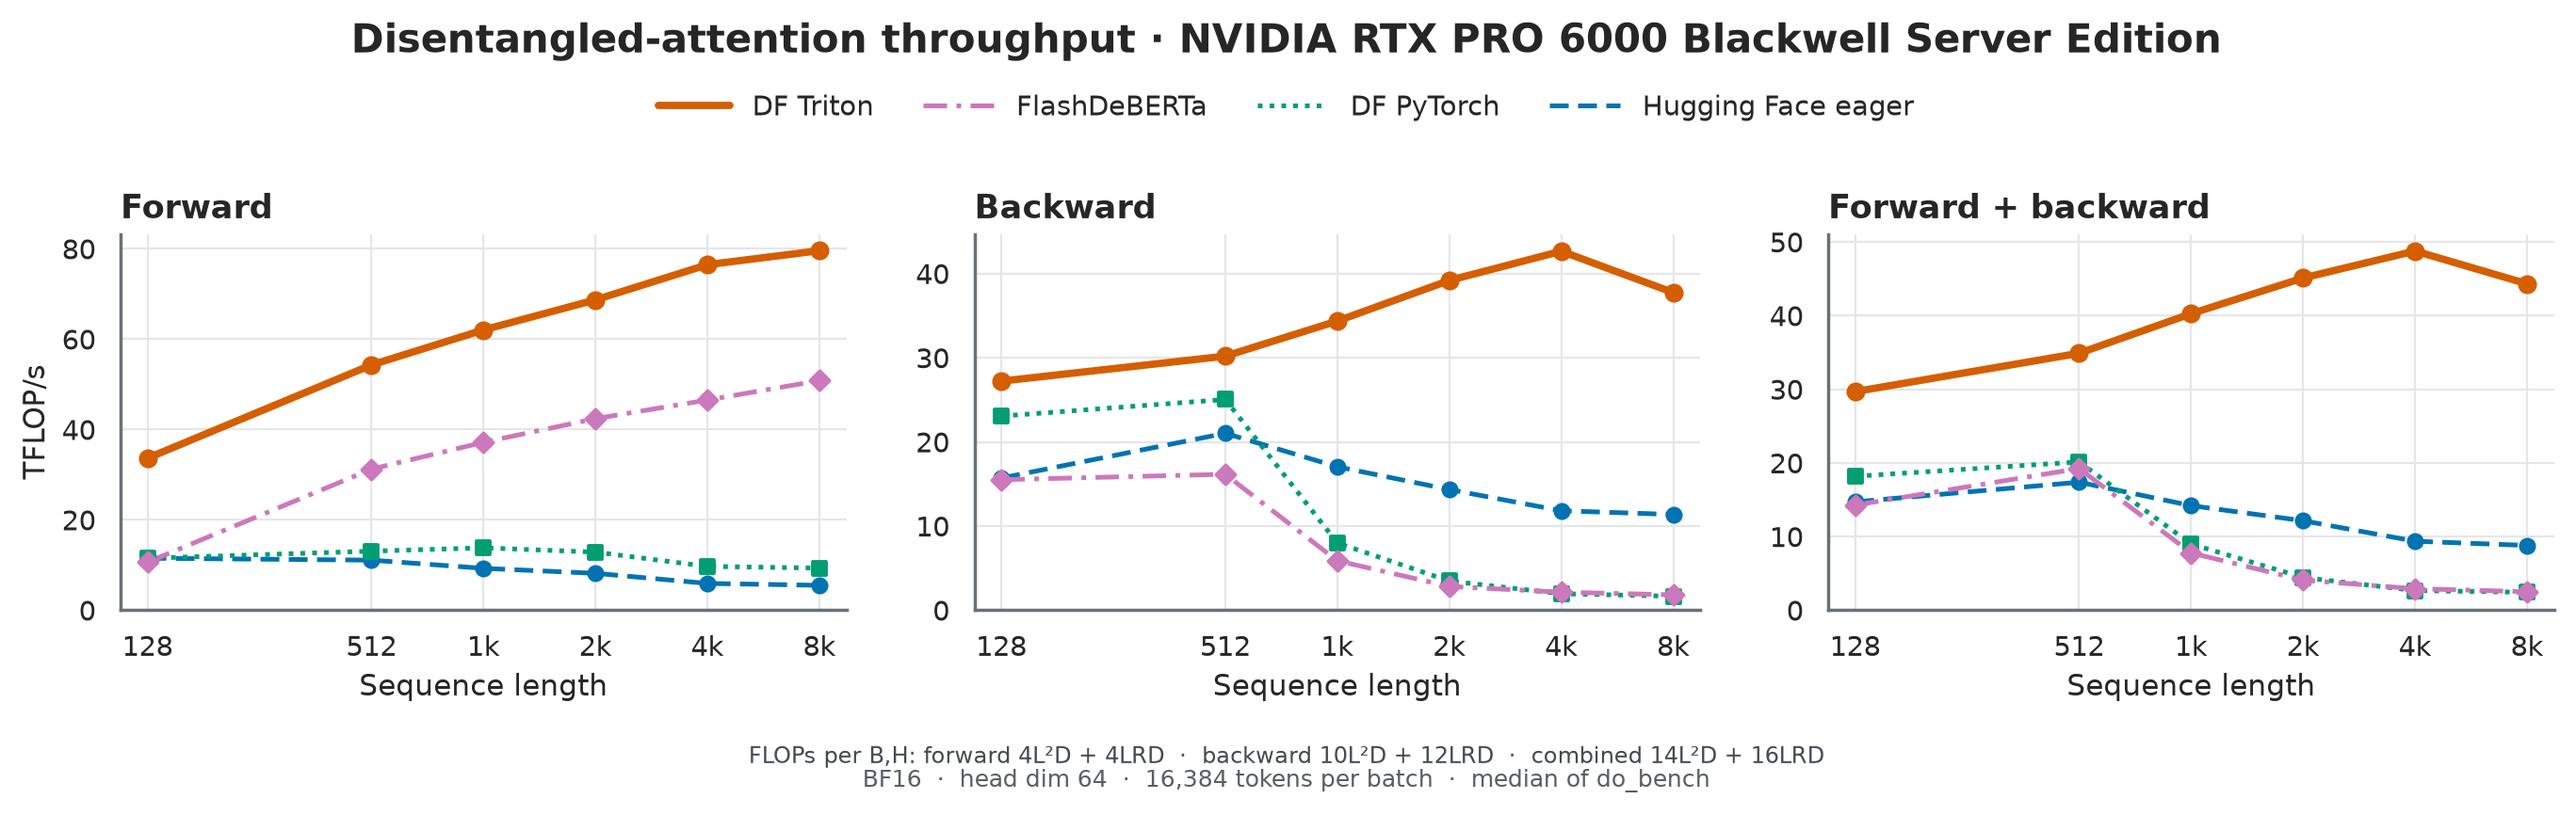
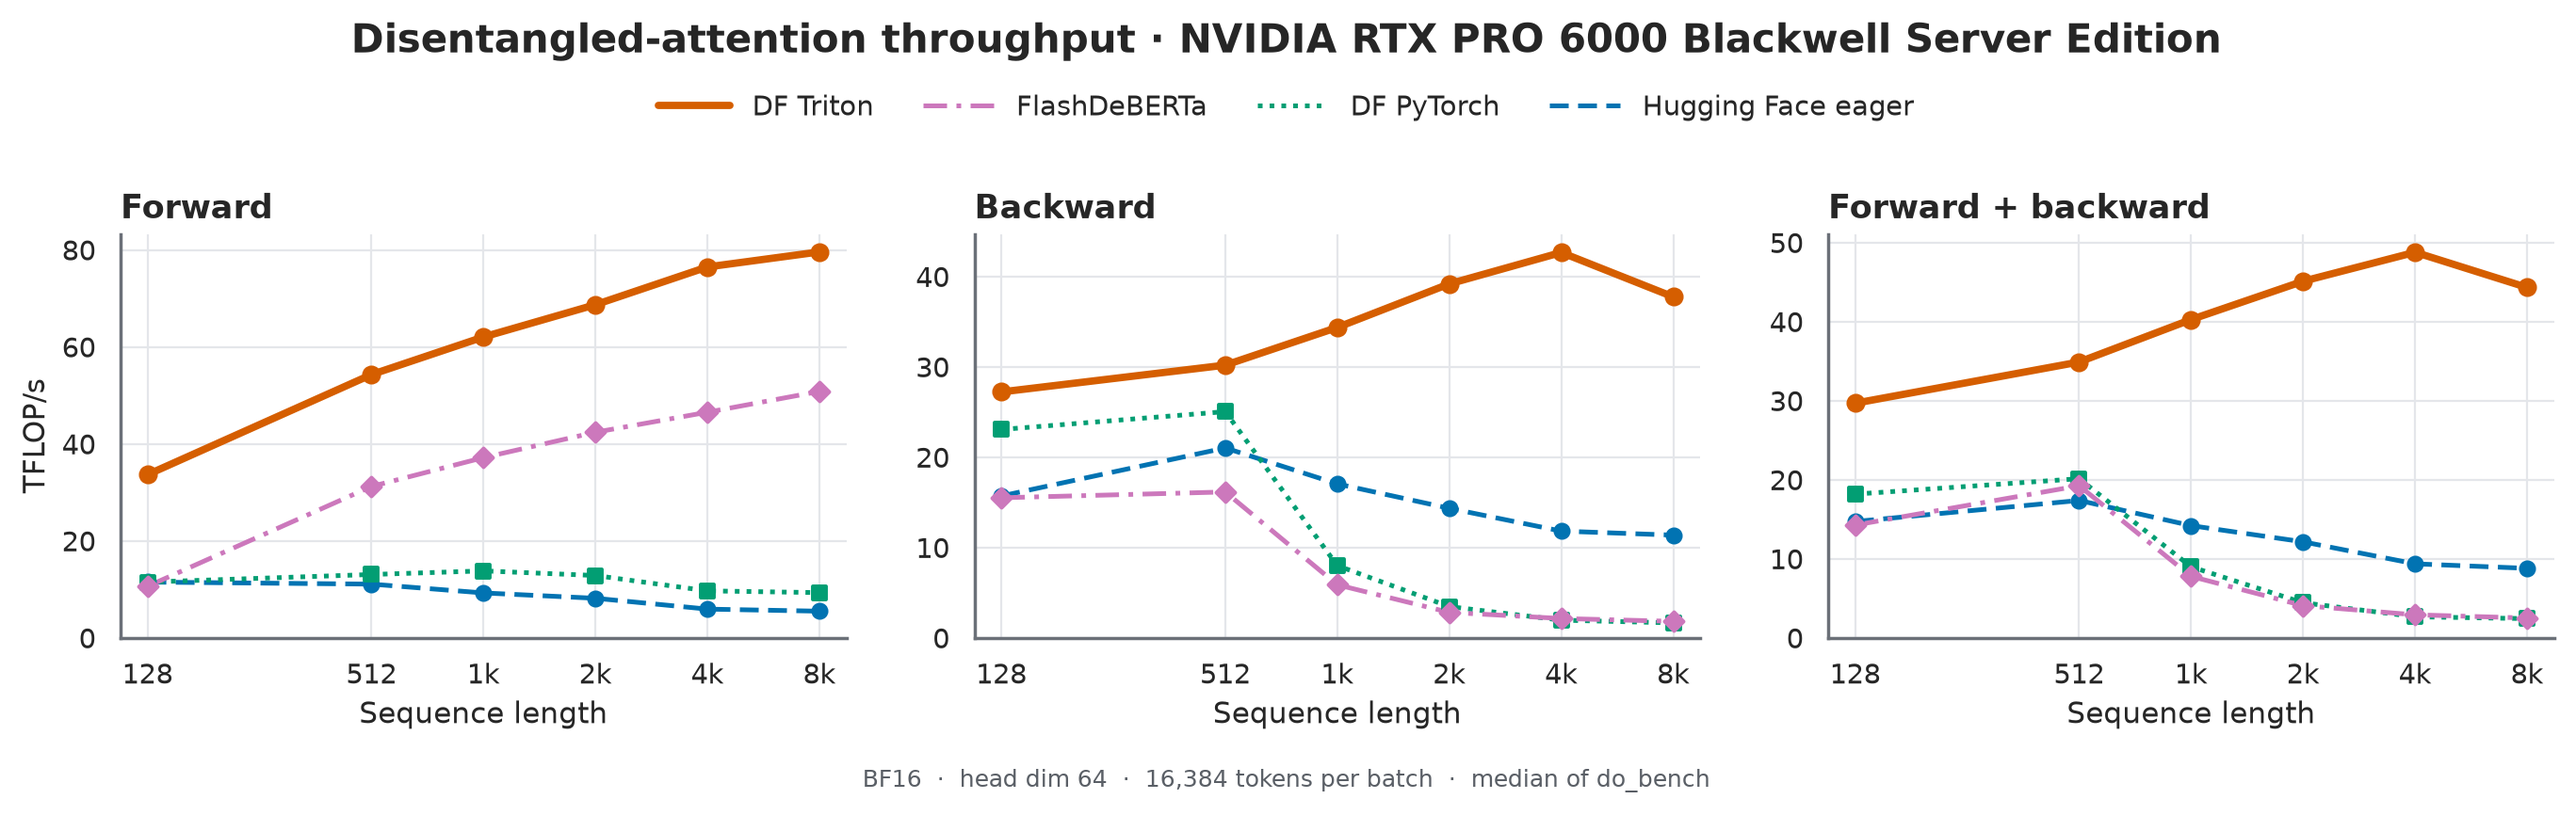
docs: move FLOP derivation out of figures

diff --git a/benchmarks/plot_cuda_results.py b/benchmarks/plot_cuda_results.py
@@ -200,14 +200,9 @@ def _make_metric_figure(
         f"{configuration.get('total_tokens', 16384):,} tokens per batch"
     )
     if timing:
-        formula_footer = (
-            "FLOPs per B,H: forward 4L²D + 4LRD  ·  "
-            "backward 10L²D + 12LRD  ·  combined 14L²D + 16LRD"
-        )
         setup_footer += "  ·  median of do_bench"
-        figure.text(0.5, 0.048, formula_footer, ha="center", fontsize=8.7, color="#454A52")
     figure.text(0.5, 0.018, setup_footer, ha="center", fontsize=9, color="#5A5F66")
-    figure.tight_layout(rect=(0, 0.085 if timing else 0.05, 1, 0.9), w_pad=2.2)
+    figure.tight_layout(rect=(0, 0.05, 1, 0.9), w_pad=2.2)
 
     png = output_dir / f"{output_stem}.png"
     pdf = output_dir / f"{output_stem}.pdf"

diff --git a/README.md b/README.md
@@ -100,6 +100,11 @@ dimension `D`, and `R` active relative-position rows, we count
 `BH(14L²D + 16LRD)` combined. As in FlashAttention, this excludes softmax,
 gathers, and projection layers.
 
+The forward count comes from two dense matrix products, QK and PV
+(`2L²D` each), plus C2P and P2C (`2LRD` each). Backward recomputes the score
+products and forms gradients for both operands: `10L²D` for QK/PV and `12LRD`
+for C2P/P2C. Forward + backward is their sum.
+
 ### NVIDIA H200
 
 ![Attention layer throughput on H200](docs/figures/kernel_throughput_h200.png)
